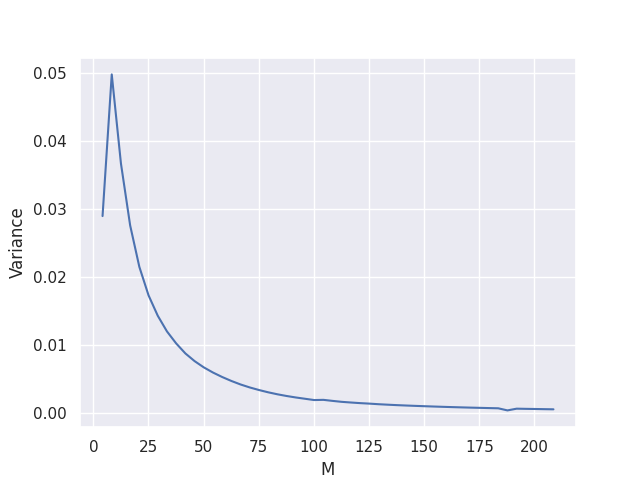
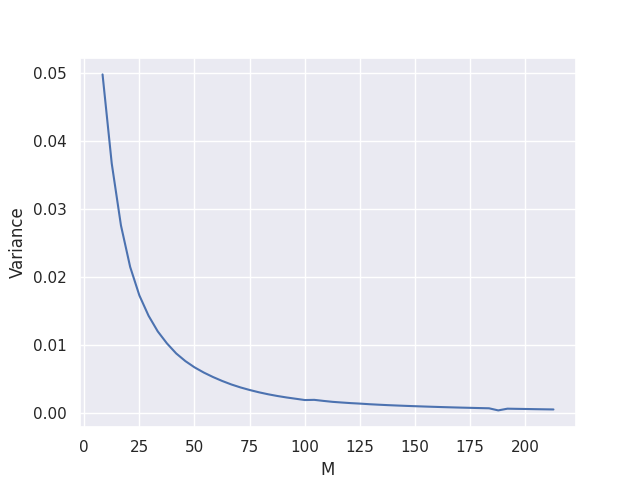
plots

diff --git a/src/xi_analysis.py b/src/xi_analysis.py
@@ -14,7 +14,7 @@ eta = 0.9
 M_UB = M_estimate(data)
 
 num_trials = 50
-M_list = [M_UB*k/2 for k in range(1,num_trials+1)]
+M_list = [M_UB*(1+k/2) for k in range(num_trials)]
 
 variances = {M: None for M in M_list}
 
